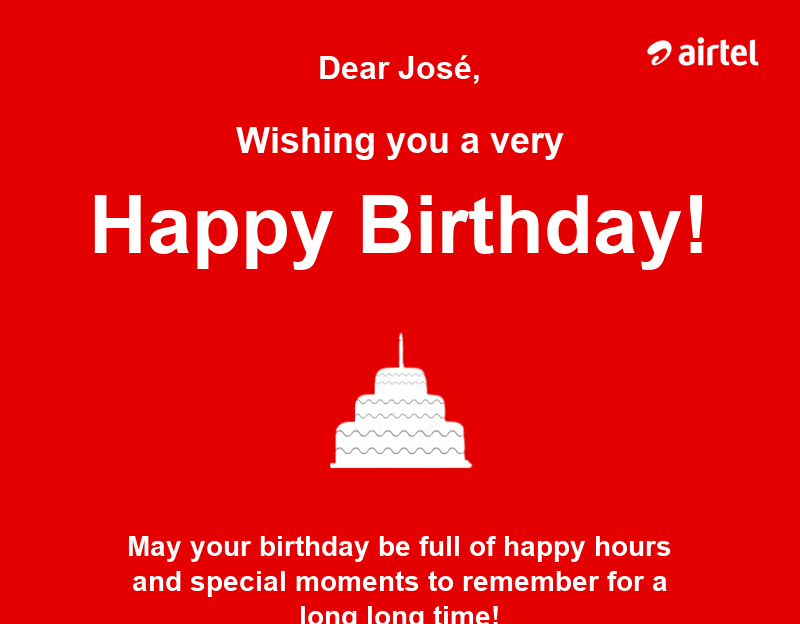
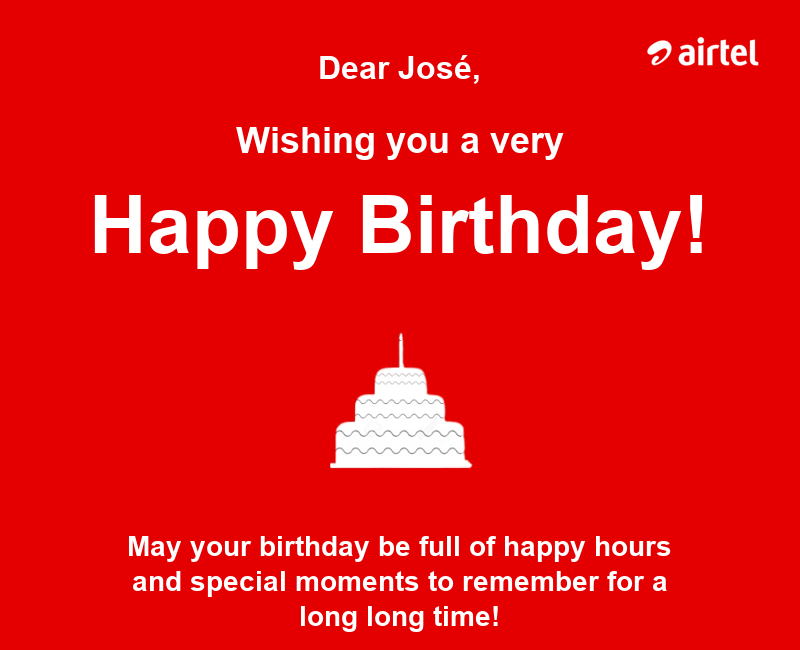
working with few errors

diff --git a/test_birthday_system.py b/test_birthday_system.py
@@ -148,7 +148,7 @@ class TestImageGeneration(TestBirthdayAutomation):
         base_image = self.automation.create_base_image()
         
         self.assertIsInstance(base_image, Image.Image, "Should return PIL Image object")
-        self.assertEqual(base_image.size, (800, 624), "Should have correct dimensions")
+        self.assertEqual(base_image.size, (800, 650), "Should have correct dimensions")
         self.assertEqual(base_image.mode, 'RGB', "Should be RGB mode")
         
         # Test caching
@@ -168,7 +168,7 @@ class TestImageGeneration(TestBirthdayAutomation):
         
         image = self.automation.create_personalized_image(employee)
         self.assertIsInstance(image, Image.Image, "Should return PIL Image object")
-        self.assertEqual(image.size, (800, 624), "Should maintain base image dimensions")
+        self.assertEqual(image.size, (800, 650), "Should maintain base image dimensions")
 
 class TestEmailFunctionality(TestBirthdayAutomation):
     """Test email functionality (without sending actual emails)"""

diff --git a/birthday_automation.py b/birthday_automation.py
@@ -178,7 +178,7 @@ class BirthdayEmailAutomation:
                 self.logger.warning(f"Error loading custom base image: {e}. Using generated template.")
         
         # Generate base image
-        width, height = 800, 624
+        width, height = 800, 650
         img = Image.new('RGB', (width, height), color='#e40000')
         draw = ImageDraw.Draw(img)
 
